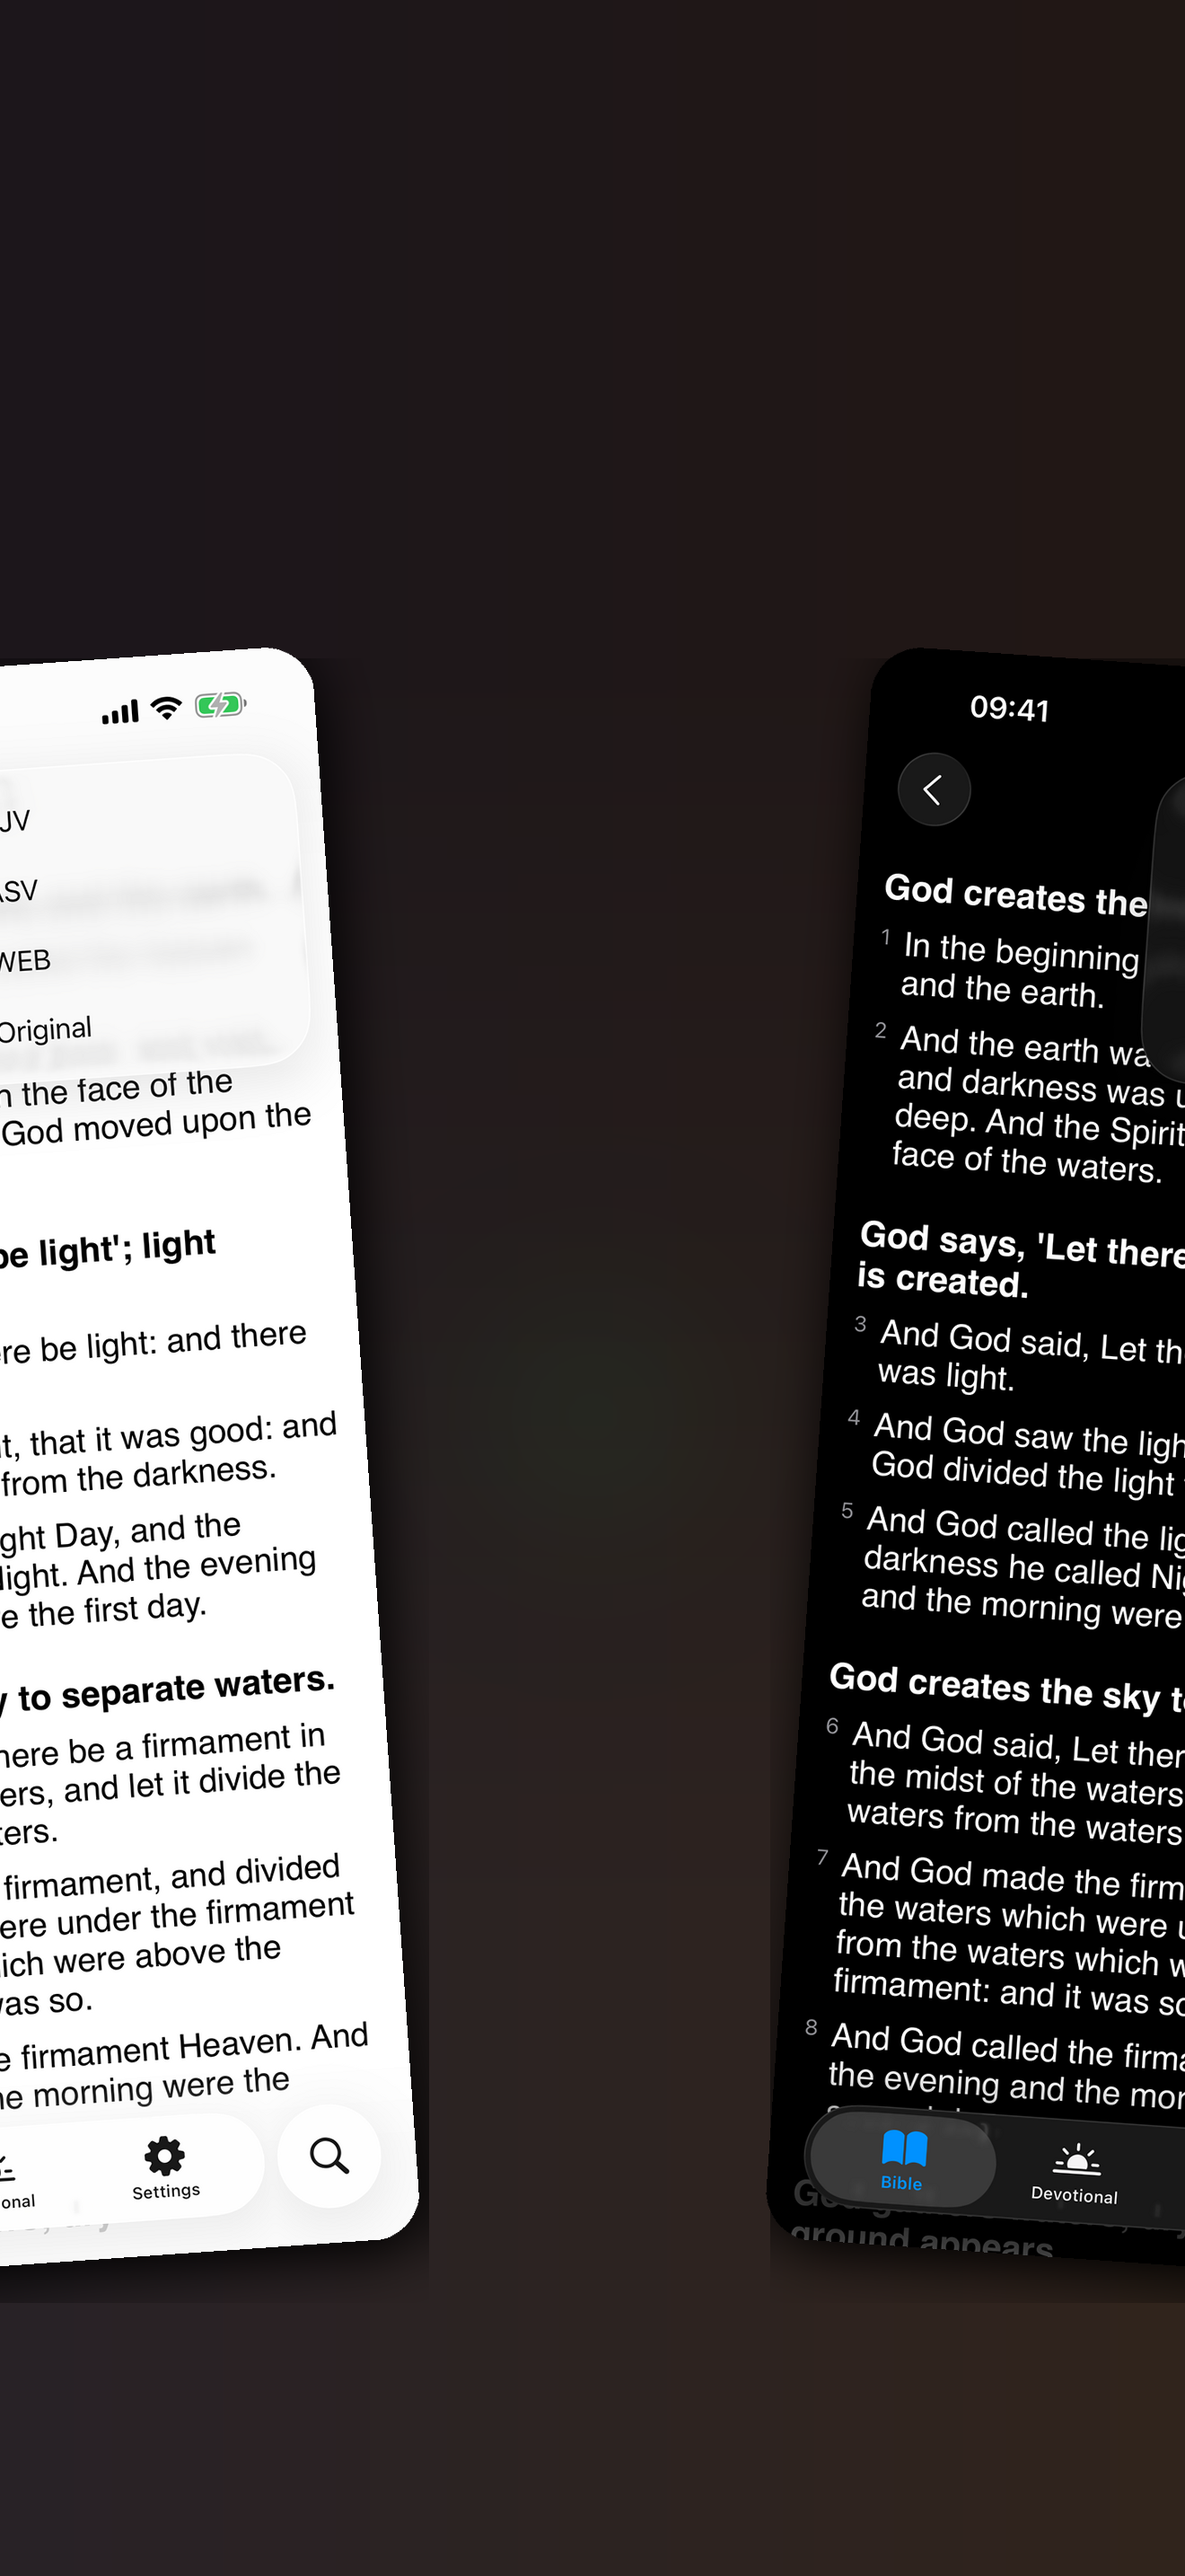
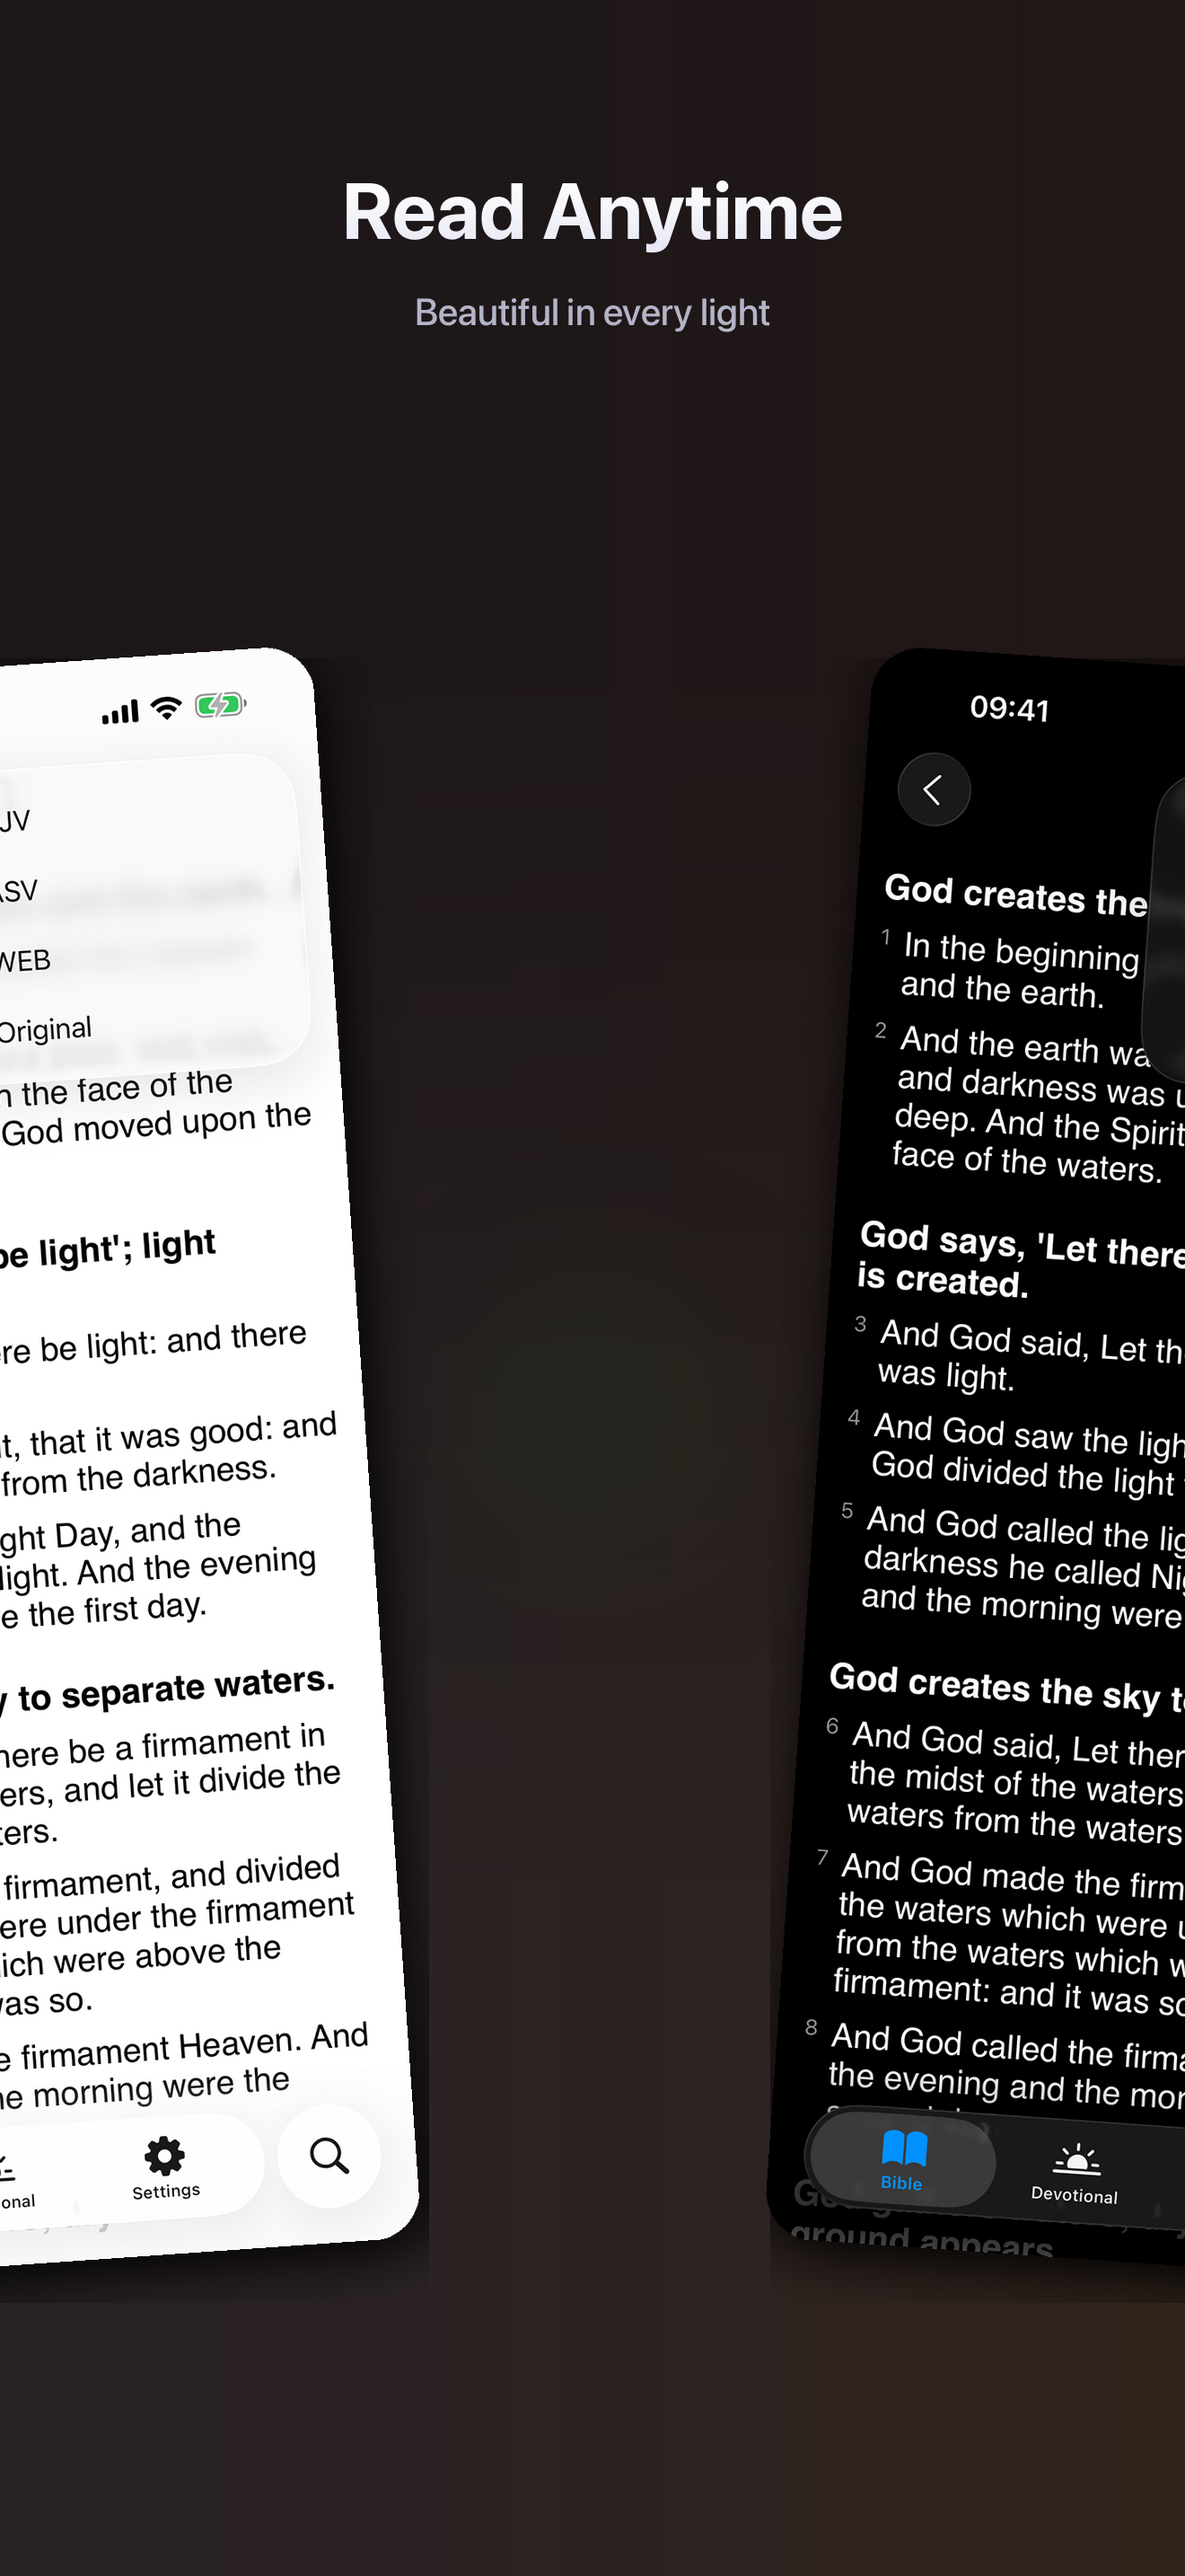
Fix ultimate strip: no overlapping text, center outro, fill empty frame
- Move "Read Anytime" headline to light/dark translation pair (was empty)
- Remove headline from last device (visual bookend, no text needed)
- Simplify headline placement: always shift right into next frame
- Center outro text in the last frame

Changed region(s): [[0.2795, 0.0621, 0.7144, 0.1241]]

diff --git a/appstore/generate_marketing_screenshots.py b/appstore/generate_marketing_screenshots.py
@@ -895,9 +895,10 @@ ULTIMATE_STRIP = {
          "headline": "Long Press. Discover More.",
          "subtitle": "Bookmark, highlight, take notes, share",
          "angle": 0, "scale": 0.65},
-        # 5. Right tilt — light mode, no headline. Visual contrast speaks.
+        # 5. Right tilt — light mode, headline on next frame with dark pair.
         {"filename": "05_translations",
-         "headline": "", "subtitle": "",
+         "headline": "Read Anytime",
+         "subtitle": "Beautiful in every light",
          "angle": 4, "scale": 0.62},
         # 6. Left tilt — dark mode mirror. Aesthetic-Usability (#122).
         {"filename": "05_translations_dark",
@@ -914,10 +915,9 @@ ULTIMATE_STRIP = {
          "headline": "Make It Yours",
          "subtitle": "Fonts, colors, and hidden texts to unlock",
          "angle": -5, "scale": 0.65},
-        # 9. Right tilt — bookend. Recency (#59): end strong.
+        # 9. Right tilt — visual bookend (no headline, outro CTA follows).
         {"filename": "01_bible_books_dark",
-         "headline": "Read Anytime",
-         "subtitle": "Beautiful in every light",
+         "headline": "", "subtitle": "",
          "angle": 3, "scale": 0.68},
     ],
     "intro_headline": "SwiftBible",
@@ -1044,15 +1044,8 @@ def generate_ultimate_strip(device_name, device_config, raw_dir, out_dir):
             else:
                 hl_grad_bot = TINT_NEUTRAL
 
-            remaining_count = len(shots) - 1  # total devices after hero
-            is_last_two = (j >= remaining_count - 2)  # last 2 devices
-
-            if is_last_two:
-                # Shift into the LEFT frame to avoid colliding with outro
-                headline_cx = cut_x - canvas_w // 2
-            else:
-                # Shift into the RIGHT frame
-                headline_cx = cut_x + canvas_w // 2
+            # Center headline in the RIGHT frame (the frame after the cut)
+            headline_cx = cut_x + canvas_w // 2
 
             hl_h = draw_gradient_text_at(
                 canvas, shot["headline"], headline_cx, text_y,
@@ -1065,8 +1058,8 @@ def generate_ultimate_strip(device_name, device_config, raw_dir, out_dir):
                     subtitle_font, SUBTITLE_COLOR_STRIP,
                 )
 
-    # 6. Outro text
-    outro_cx = int((num_frames - 0.35) * canvas_w)
+    # 6. Outro text — centered in the last frame
+    outro_cx = int((num_frames - 0.5) * canvas_w)
     outro_hl_h = draw_gradient_text_at(
         canvas, cfg["outro_headline"], outro_cx, text_y,
         intro_font, (255, 255, 255), TINT_WARM,
